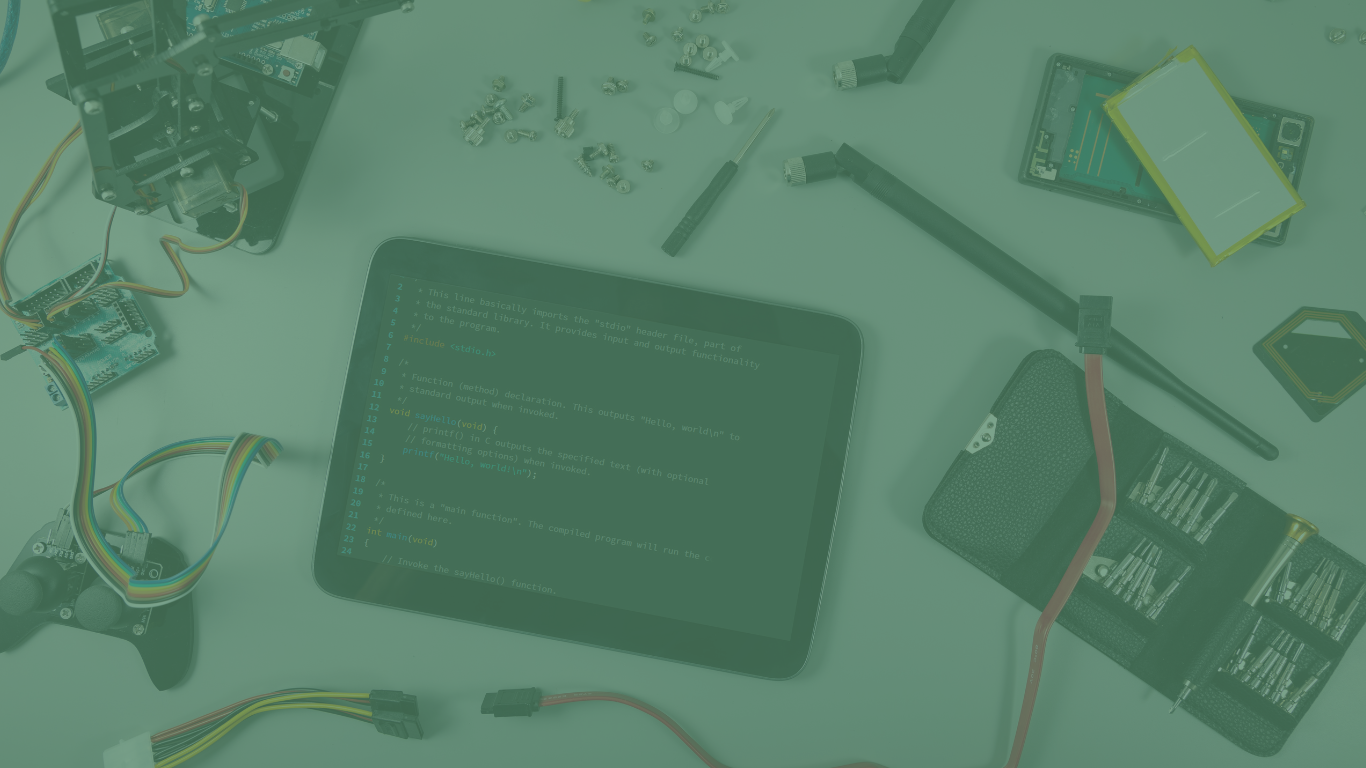
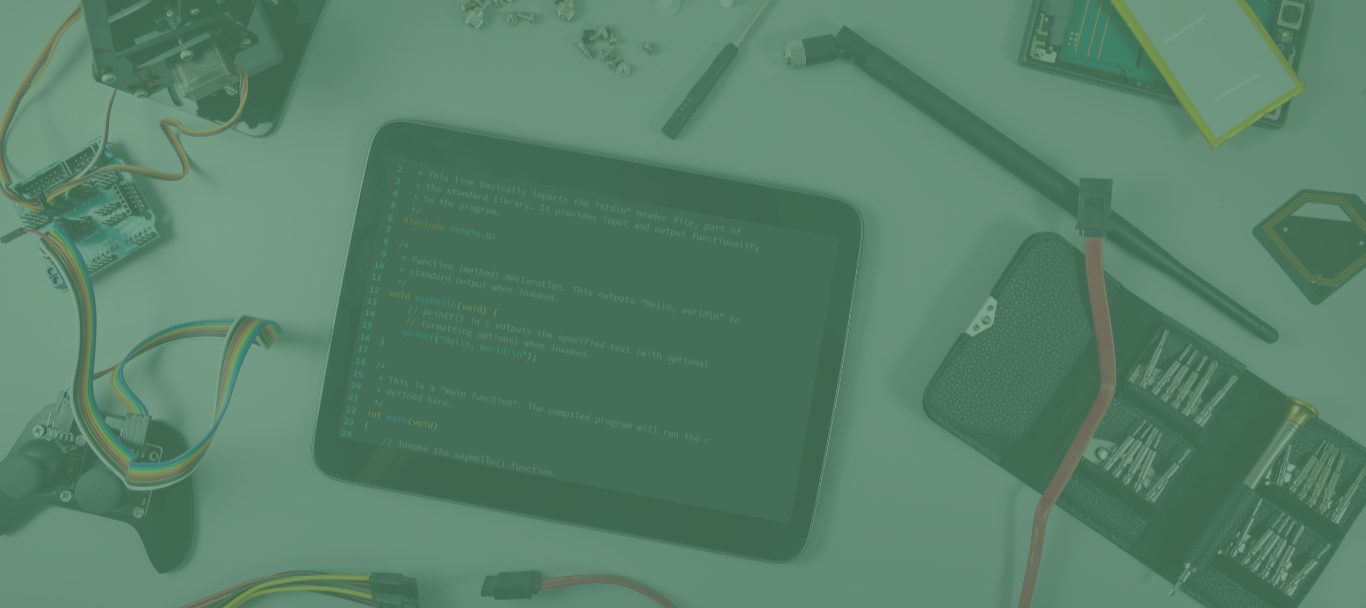
estilizando hero

diff --git a/bimestre2/paginaPessoal/index.html b/bimestre2/paginaPessoal/index.html
@@ -12,6 +12,7 @@
     <title>Ornã Keivison</title>
 </head>
 <body>
+    <img src="./images/wave.png" alt="" class="wave">
     <header>
             <h1>Ornã Keivison</h1>
 
@@ -26,24 +27,30 @@
                 </ul>
             </nav>
 
-            <button class="callToAction">More About Me!</button>
+            <button class="callToAction">Vamos construir algo incrível juntos? 🚀</button>
     </header>
 
-    <div class="container">
+    
         <main>
-            <div class="text-hero">
-                <h1>Hey, I'm Ornã Keivison</h1>
-                <h4>Sou aluno do IFRN no curso Técnico em Informática, apaixonado por robótica, programação e automação. Estou sempre em busca de novas soluções criativas para projetos inovadores. Seja construindo um robô para as competições, otimizando processos ou desenvolvendo sistemas, gosto de transformar ideias em realidade. Seja bem-vindo ao meu espaço digital!</h4>
-                <button class="callToAction">Vamos construir algo incrível juntos? 🚀</button>
+            <div class="main">
+                <div class="text-hero">
+                    <h1>Hey, I'm Ornã Keivison</h1>
+                    <h4>Sou aluno do IFRN no curso Técnico em Informática, apaixonado por robótica, programação e automação. Estou sempre em busca de novas soluções criativas para projetos inovadores. Seja construindo um robô para as competições, otimizando processos ou desenvolvendo sistemas, gosto de transformar ideias em realidade. <br>Seja bem-vindo ao meu espaço digital!</h4>
+                </div>
+  
+                <img src="./images/perfil.png" alt="perfil" class="perfil">
+
+                
             </div>
-            <img src="./images/perfil.png" alt="perfil">
         </main>
 
-            
+    <div class="container">
         <section id="Sobre">
-            <h2>Sobre mim...</h2>
             <img src="./images/aboutMe.jpg" alt="perfil">
-            <p> Olá! Sou Ornã Keivison, natural de Parnamirim, RN, e atualmente resido em Pureza, RN. Sou estudante do curso Técnico em Informática no IFRN, onde encontrei minha verdadeira paixão por programação, automação e robótica. Estou sempre em busca de maneiras criativas de aplicar meus conhecimentos técnicos para desenvolver soluções inovadoras. Além disso, tenho um grande interesse por física e biologia, especialmente áreas fascinantes como astronomia e bioquímica. Já tive a oportunidade de participar de competições como a MOBFOG, OBSAT e a OBR, experiências que ampliaram minha visão e aprendizado. Como cristão, acredito no propósito de viver de forma significativa e, mais do que tudo, tenho o sonho de explorar o mundo, conhecendo novas culturas e absorvendo o que cada lugar tem a oferecer. Seja bem-vindo ao meu espaço digital, um lugar onde compartilho minhas paixões, projetos e conquistas!</p>
+            <div class="text-about">
+                <h2>Sobre mim...</h2>
+                <p> Olá! Sou Ornã Keivison, natural de Parnamirim, RN, e atualmente resido em Pureza, RN. Sou estudante do curso Técnico em Informática no IFRN, onde encontrei minha verdadeira paixão por programação, automação e robótica. Estou sempre em busca de maneiras criativas de aplicar meus conhecimentos técnicos para desenvolver soluções inovadoras. Além disso, tenho um grande interesse por física e biologia, especialmente áreas fascinantes como astronomia e bioquímica. Já tive a oportunidade de participar de competições como a MOBFOG, OBSAT e a OBR, experiências que ampliaram minha visão e aprendizado. Como cristão, acredito no propósito de viver de forma significativa e, mais do que tudo, tenho o sonho de explorar o mundo, conhecendo novas culturas e absorvendo o que cada lugar tem a oferecer. Seja bem-vindo ao meu espaço digital, um lugar onde compartilho minhas paixões, projetos e conquistas!</p>
+            </div>
         </section>
     </div>
 <!---

diff --git a/bimestre2/paginaPessoal/style.css b/bimestre2/paginaPessoal/style.css
@@ -17,12 +17,14 @@ body{
     color: var(--text-color);
     background-image: url(./images/fundo.png);
     background-size: 100%;
+    background-position-y: 20px;
     background-repeat: no-repeat;
 }
 
 .container{
-    width: 50%;
-    margin-left: 25%;
+    width: 60%;
+    margin-left: 15%;
+    margin-top: 650px;
 }
 /* CALL TO ACTION */
 
@@ -33,6 +35,7 @@ body{
     border: var(--accent-color);
     color: var(--primary-color);
     transition: transform 0.3s ease-in-out;
+    cursor: pointer;
 }
 
 .callToAction:hover{
@@ -57,7 +60,7 @@ header h1{
 header nav{
     display: inline;
     position: absolute;
-    left: 350px;
+    left: 400px;
     top: 30px;
 }
 
@@ -90,28 +93,48 @@ header button{
 }
 /* HERO */
 
+.text-hero{
+    float: left;
+    width: 45%;
+    margin-top: 150px;
+    margin-left: 50px;
+    color: var(--primary-color);
+}
+
+main img {
+    width: 600px;
+    float: right;
+    margin-top: 15px;
+    margin-right: 100px;
+}
+
+.wave{
+    position: absolute;
+    width: 100%;
+    left: 0px;
+    top: -150px;
+
+}
+
 main h1{
-    text-align: center;
-    margin: 20px;
+    font-size: 50px;
+    margin: 20px 0px 20px 0px;
 }
 
 main h4{
-    text-align: center;
-    font-size: 12px;
-    font-weight: 300;
+    font-weight: 400;
+    margin: 0px 0px 20px 0px;
 }
+/* ABOUT ME */
 
-main .callToAction{
-    font-size: 10px;
-    display: block;
-    position: relative;
-    left: 34.5%;
-    margin-top: 20px;
-}
-
-main img{
+#Sobre img{
     width: 300px;
-    position: relative;
-    left: 26.5%;
-    margin-top: 20px;
+    border-radius: 100%;
+    float: left;
 }
+
+.text-about{
+    float: right;
+    width: 30%;
+}
+
